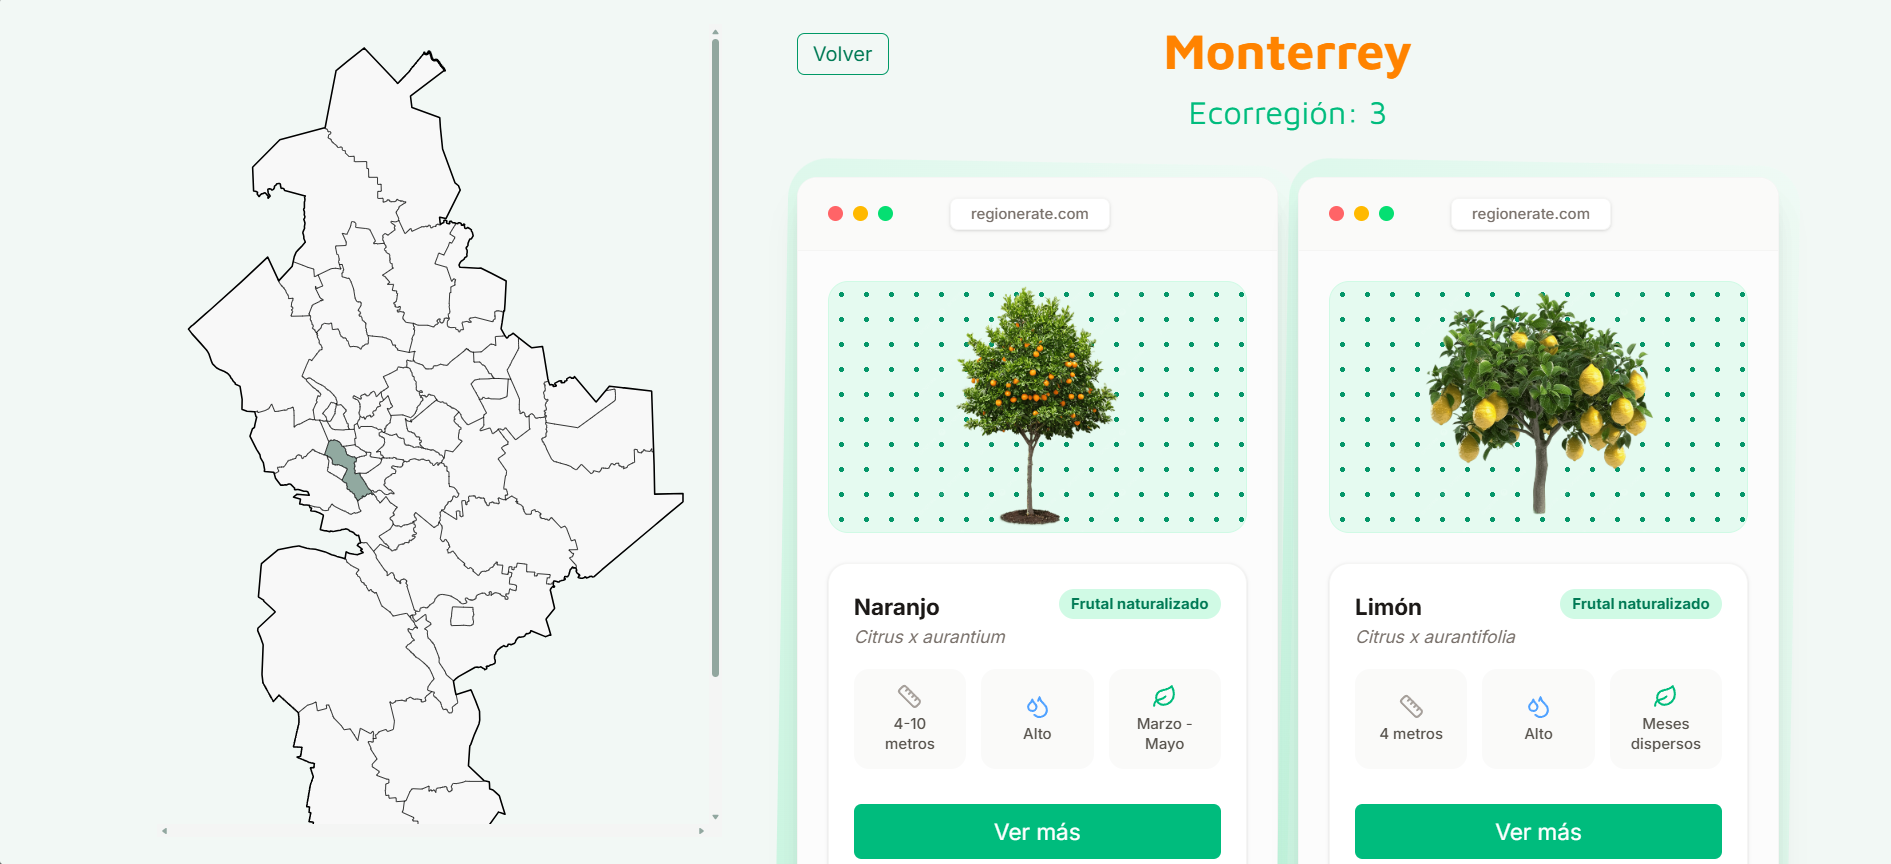
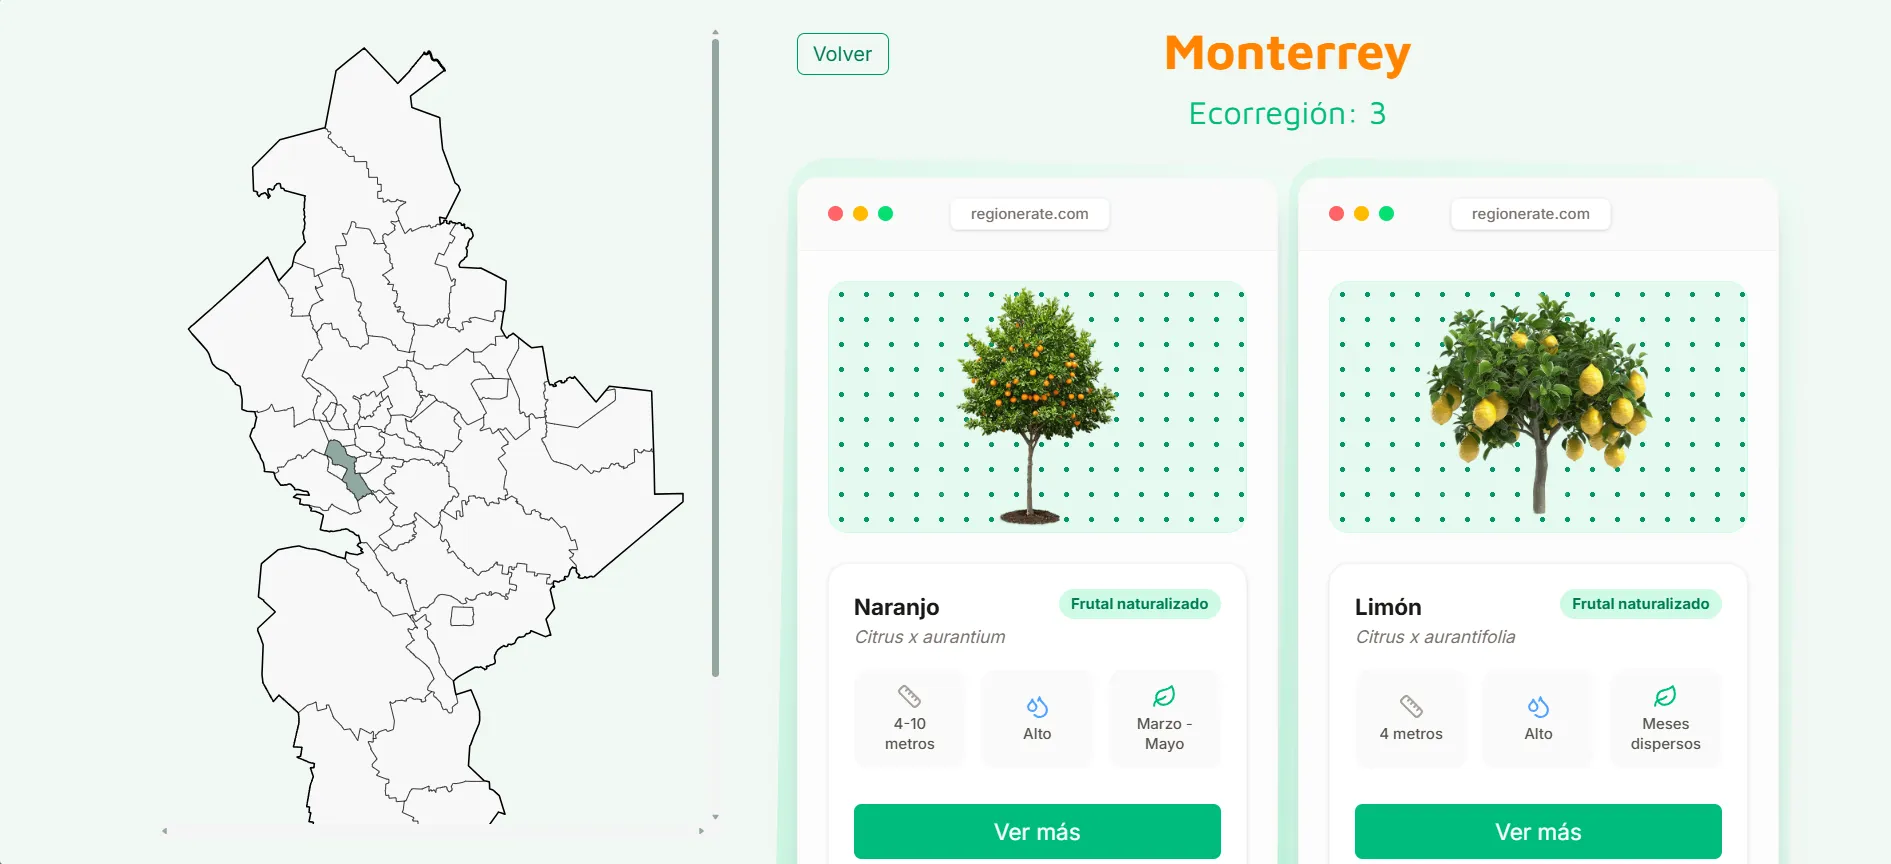
Changing images to webp and fixing error in 3d model

diff --git a/app/(landing)/_components/3d.tsx b/app/(landing)/_components/3d.tsx
@@ -1,13 +1,14 @@
 "use client";
 
-import { Canvas } from "@react-three/fiber"
-import { useGLTF, OrbitControls } from "@react-three/drei";
-import { useFrame } from "@react-three/fiber";
-import { useRef } from "react";
+import { Canvas, useFrame } from "@react-three/fiber";
+import { OrbitControls, useGLTF } from "@react-three/drei";
+import { Suspense, useMemo, useRef } from "react";
+import type { Group } from "three";
 
 function Model() {
     const { scene } = useGLTF('/arbol.glb');
-    const ref = useRef<any>('');
+    const model = useMemo(() => scene.clone(), [scene]);
+    const ref = useRef<Group | null>(null);
 
     useFrame(()=>{
         if(ref.current){
@@ -15,32 +16,39 @@ function Model() {
         }
     })
 
-    return <primitive ref={ref} object={scene}/>
+    return <primitive ref={ref} object={model} dispose={null}/>
 }
 
 const Objeto3d = () => {
     return (
-        <Canvas camera={{ position: [0, 0, 1.1] }}>
+        <Canvas
+            className="h-full w-full"
+            camera={{ position: [0, 0, 1.1] }}
+            dpr={[1, 1.5]}
+            gl={{ antialias: false, alpha: true, powerPreference: "low-power" }}
+        >
             <ambientLight intensity={0.6} />
-            
-            <directionalLight 
-                position={[2, 2, 2]} 
-                intensity={3} 
+
+            <directionalLight
+                position={[2, 2, 2]}
+                intensity={3}
             />
-            <directionalLight 
-                position={[-2, -2, -2]} 
-                intensity={5} 
+            <directionalLight
+                position={[-2, -2, -2]}
+                intensity={5}
             />
-            <directionalLight 
-                position={[-3, 2, 0]} 
-                intensity={5} 
+            <directionalLight
+                position={[-3, 2, 0]}
+                intensity={5}
             />
-            <directionalLight 
-                position={[5, 2, 1]} 
-                intensity={5} 
+            <directionalLight
+                position={[5, 2, 1]}
+                intensity={5}
             />
 
-            <Model />
+            <Suspense fallback={null}>
+                <Model />
+            </Suspense>
 
             <OrbitControls enableZoom={false} autoRotate autoRotateSpeed={1} />
         </Canvas>

diff --git a/app/(landing)/_components/Hero3dDeferred.tsx b/app/(landing)/_components/Hero3dDeferred.tsx
@@ -6,7 +6,7 @@ import { useEffect, useRef, useState } from "react";
 const Objeto3d = dynamic(() => import("./3d"), {
   ssr: false,
   loading: () => (
-    <div className="flex aspect-square w-full items-center justify-center rounded-3xl border border-[#dbe8e1] bg-[#f4f8f5]">
+    <div className="flex h-full w-full items-center justify-center rounded-3xl border border-[#dbe8e1] bg-[#f4f8f5]">
       <div className="h-16 w-16 rounded-full border-4 border-emerald-200 border-t-emerald-600 animate-spin" />
     </div>
   ),
@@ -44,7 +44,15 @@ const Hero3dDeferred = () => {
     return () => observer.disconnect();
   }, []);
 
-  return <div ref={sentinelRef}>{shouldLoad ? <Objeto3d /> : <div className="flex aspect-square w-full items-center justify-center rounded-3xl border border-[#dbe8e1] bg-[#f4f8f5]" />}</div>;
+  return (
+    <div ref={sentinelRef} className="h-full min-h-[24rem] w-full">
+      {shouldLoad ? (
+        <Objeto3d />
+      ) : (
+        <div className="flex h-full w-full items-center justify-center rounded-3xl border border-[#dbe8e1] bg-[#f4f8f5]" />
+      )}
+    </div>
+  );
 };
 
 export default Hero3dDeferred;
